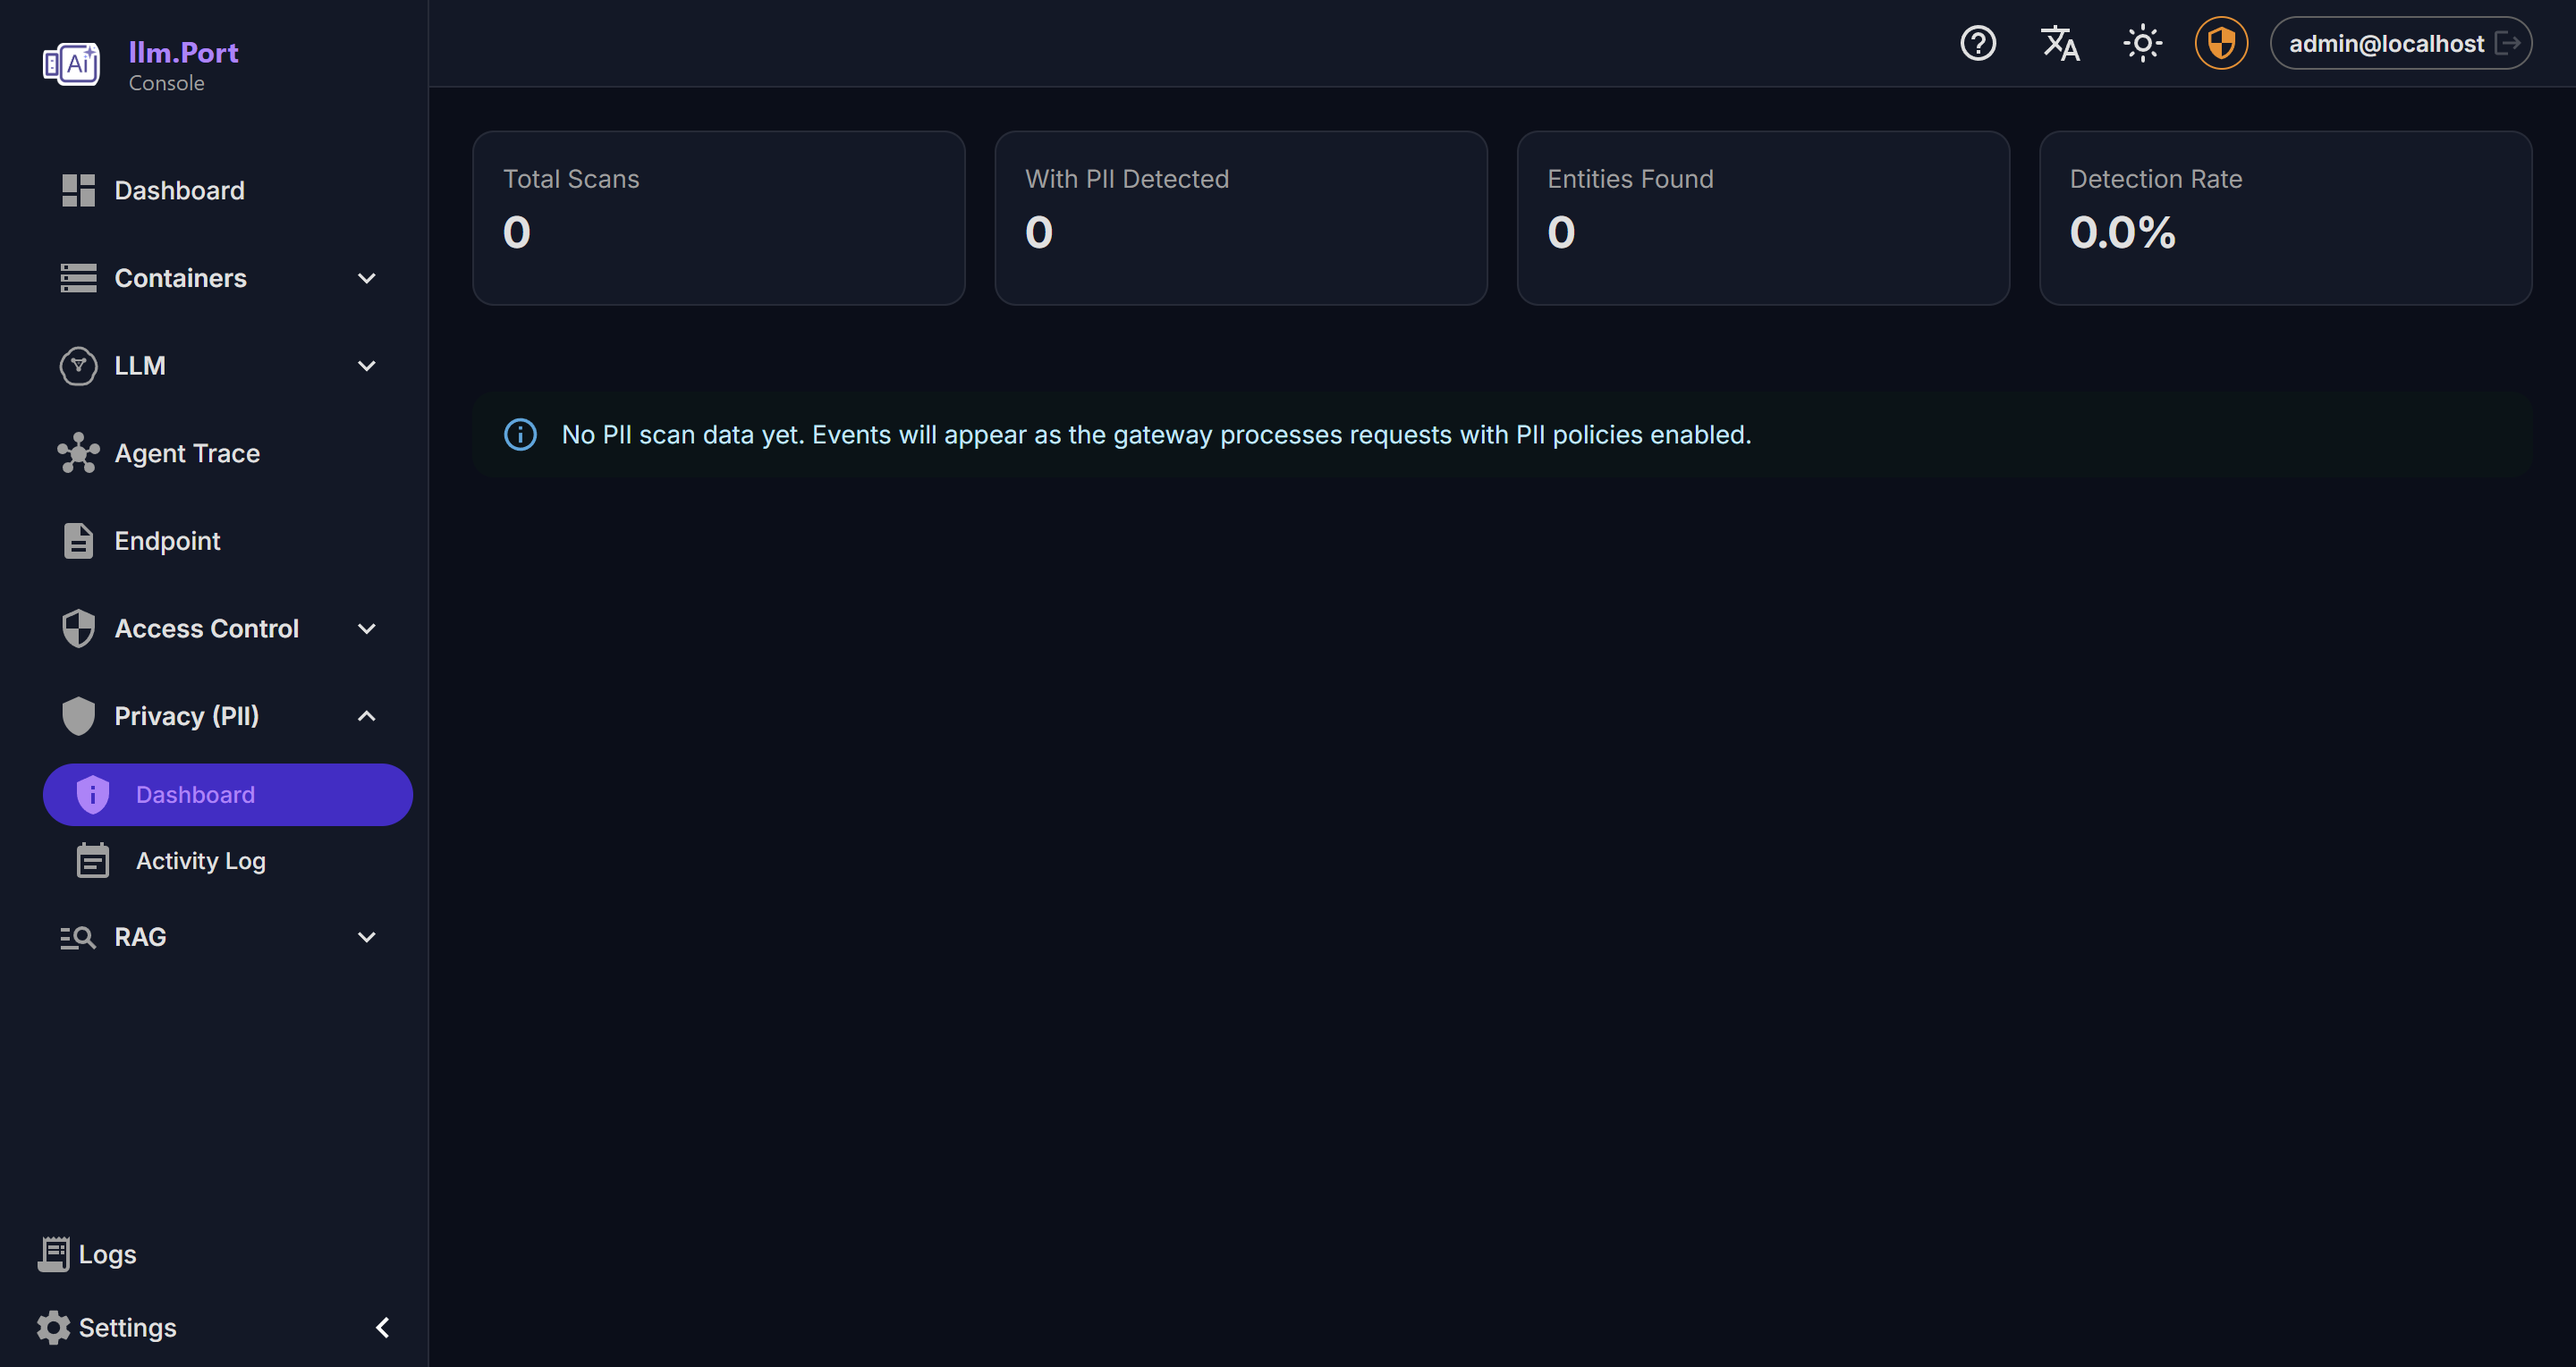
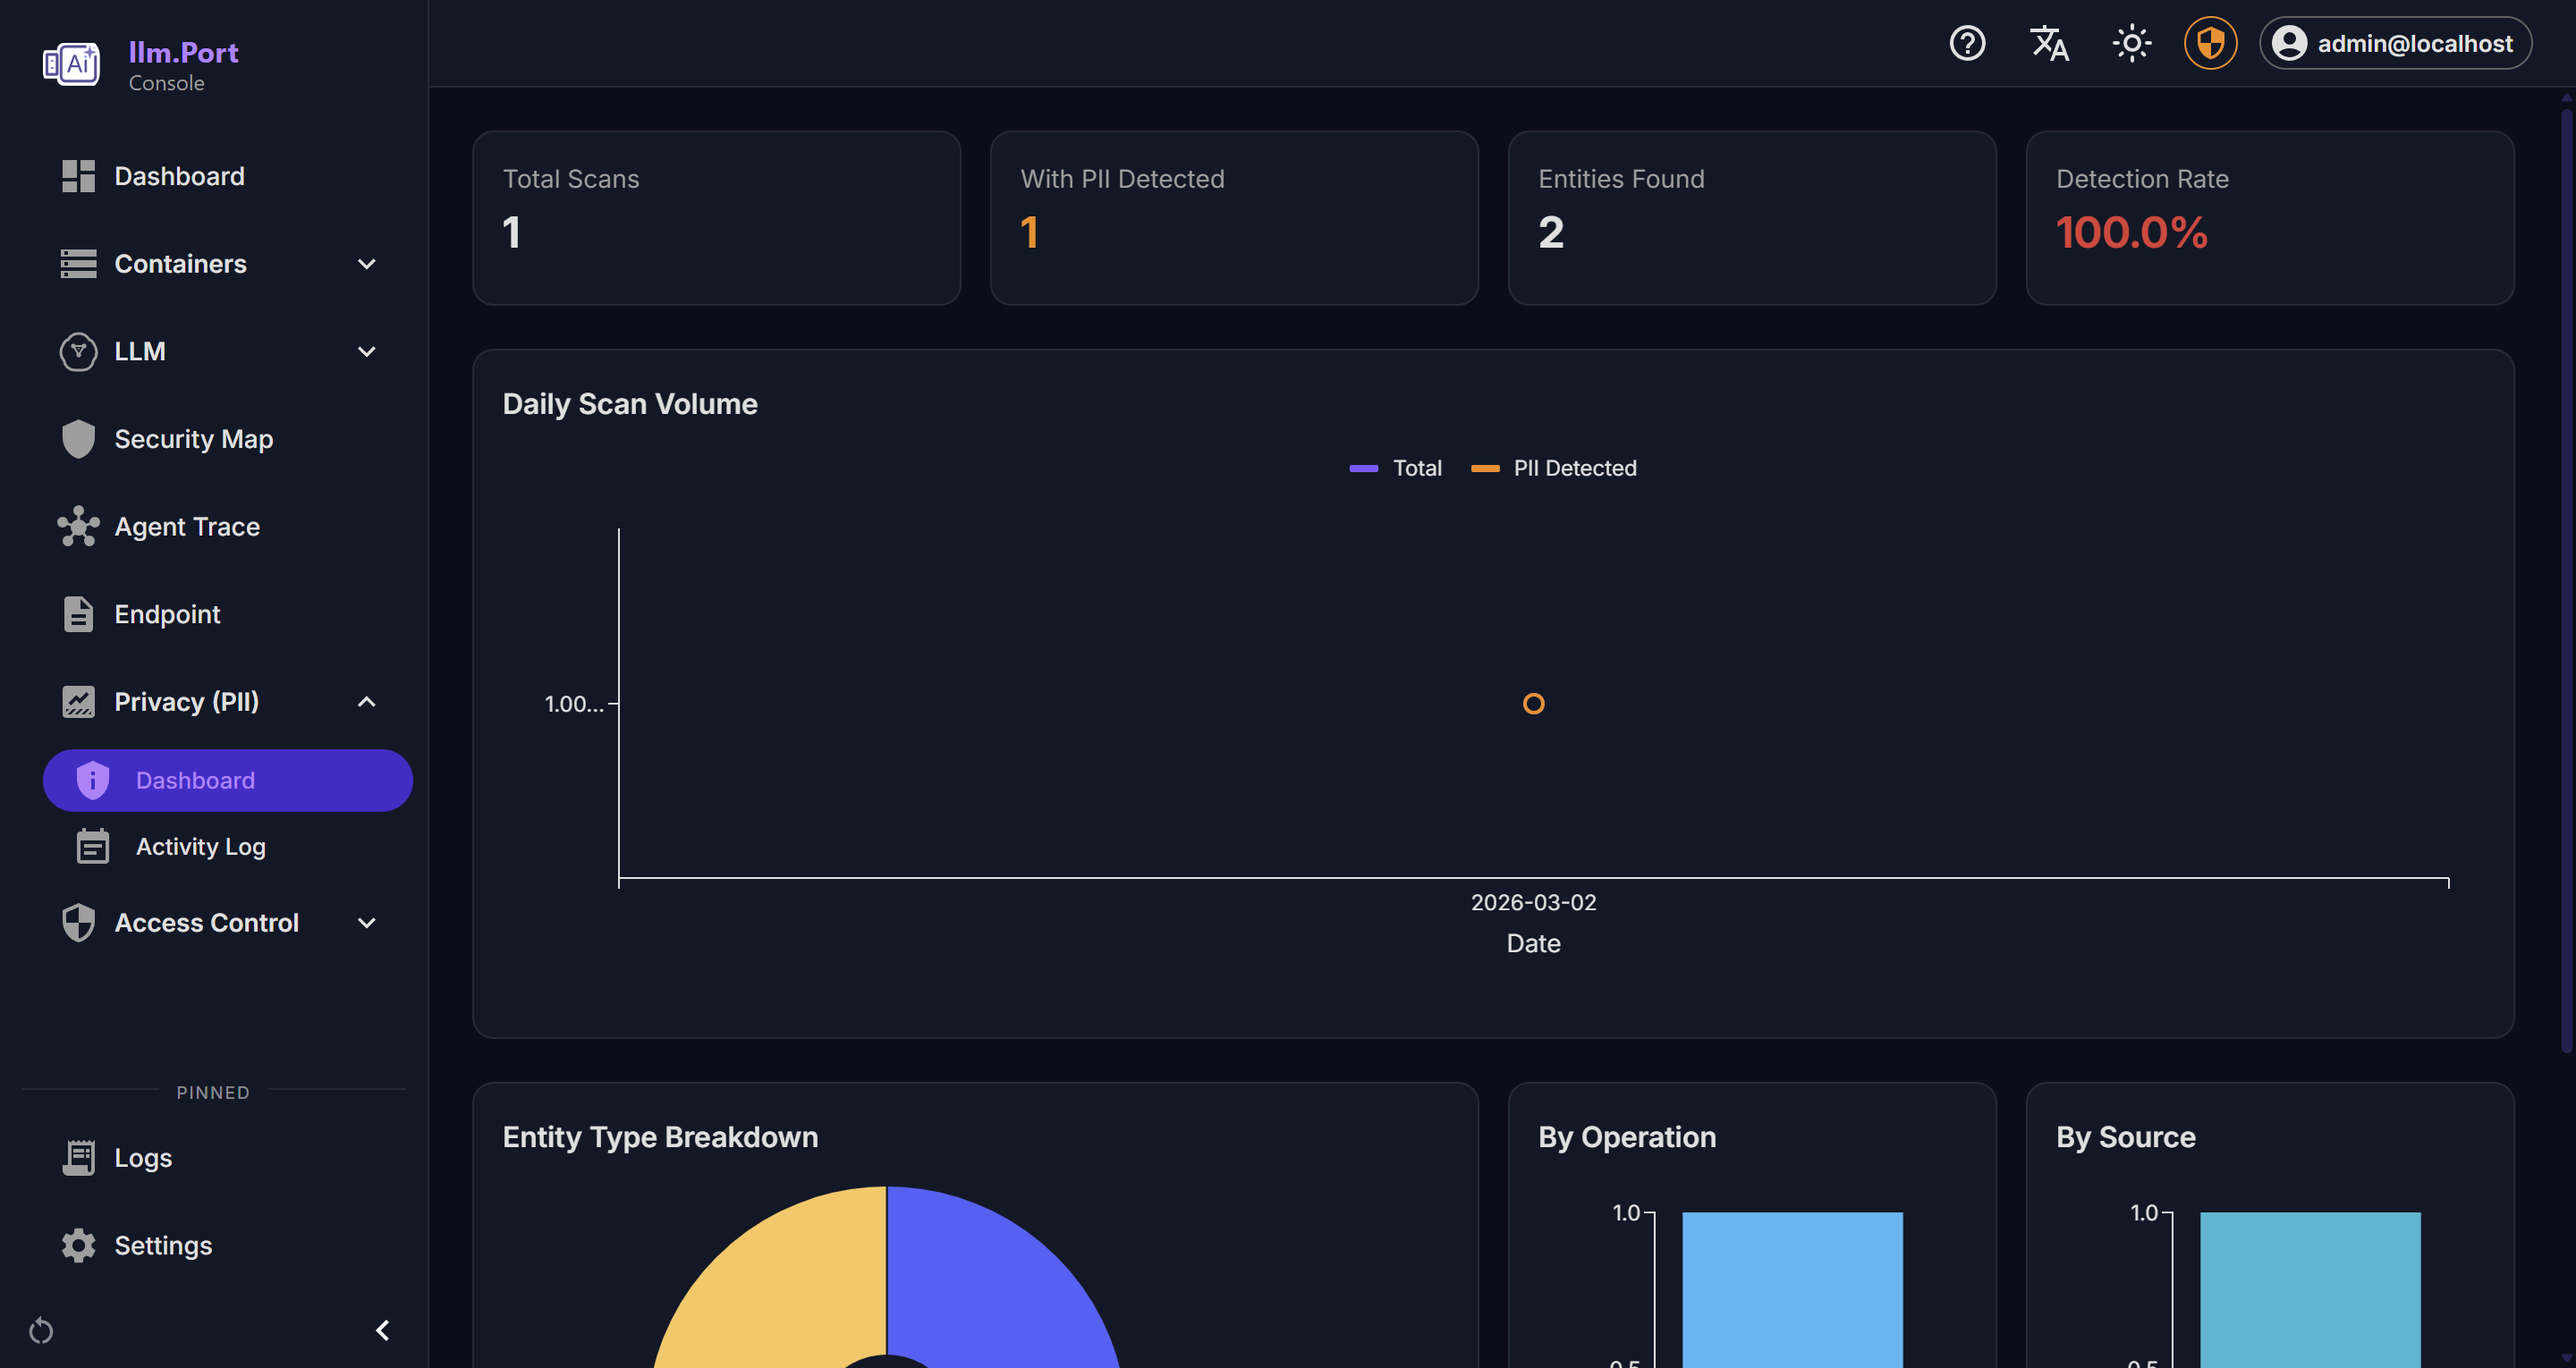
update readme

diff --git a/profile/README.md b/profile/README.md
@@ -1,12 +1,13 @@
 # llm.port
 
 **llm.port** is a self-hosted **all-in-one LLM platform** that combines:
+
 - an OpenAI-compatible gateway for app traffic
 - control-plane operations for model servers and runtime infrastructure
 - an internal RAG subsystem for ingestion, indexing, and governed retrieval
 - PII detection and redaction integrated into the gateway pipeline
 
-It **routes, secures, and observes** traffic across **local LLM runtimes** *and* **remote providers**, while giving teams a single place to manage LLM services end-to-end.
+It **routes, secures, and observes** traffic across **local LLM runtimes** _and_ **remote providers**, while giving teams a single place to manage LLM services end-to-end.
 
 ## Architecture
 
@@ -40,6 +41,8 @@ It **routes, secures, and observes** traffic across **local LLM runtimes** *and*
 
 <img src="./images/api.png">
 
+<img src="./images/modules.png">
+
 ---
 
 ## What it does
@@ -47,6 +50,7 @@ It **routes, secures, and observes** traffic across **local LLM runtimes** *and*
 ### ✅ Today
 
 **Gateway & Routing**
+
 - **One endpoint for all apps**: OpenAI-compatible API (`/v1/models`, `/v1/chat/completions`, `/v1/embeddings`)
 - **Provider routing layer**: local runtimes (vLLM, llama.cpp, Ollama, TGI) and remote providers (OpenAI, Azure, …)
 - **Alias-based model resolution**: multi-tenant routing to pools of provider instances
@@ -54,6 +58,7 @@ It **routes, secures, and observes** traffic across **local LLM runtimes** *and*
 - **Proxy & retry**: upstream HTTP proxy with configurable timeout and pre-first-token retry
 
 **Security & Policy**
+
 - **Full RBAC**: resource + action permission model with roles, groups, and user assignment
 - **JWT authentication**: bearer tokens with tenant-aware claims across gateway and admin APIs
 - **OAuth / SSO**: OIDC/OAuth2 provider management with auto-registration and group mapping
@@ -64,12 +69,14 @@ It **routes, secures, and observes** traffic across **local LLM runtimes** *and*
 - **DB-stored secrets**: Fernet-encrypted secrets with a single master key — no secrets in env vars
 
 **PII Detection & Redaction**
+
 - **Presidio-based** standalone service for PII scanning, redaction, and reversible tokenization
 - **Gateway-integrated**: per-tenant PII policies for telemetry sanitization and egress control
 - **Configurable entity types**: PERSON, EMAIL, PHONE, CREDIT_CARD, SSN, IP_ADDRESS, etc.
 - **Fail modes**: block, allow, or fallback-to-local on PII service errors
 
 **Observability**
+
 - **Langfuse tracing**: full trace/generation events with privacy modes (full / redacted / metadata_only)
 - **Centralized logging**: Loki + Alloy log collection, queryable via Grafana and admin API
 - **Audit logging**: every gateway request and admin action logged with full context
@@ -78,6 +85,7 @@ It **routes, secures, and observes** traffic across **local LLM runtimes** *and*
 - **Dashboard**: system overview, health checks, container stats, Grafana panel embeds
 
 **Ops Console**
+
 - **Container management**: lifecycle controls (start/stop/restart/pause), exec, log streaming
 - **Image management**: pull with SSE progress, list, prune
 - **Compose stack management**: deploy/update/rollback with revisions, diffs, and audit trail
@@ -85,6 +93,7 @@ It **routes, secures, and observes** traffic across **local LLM runtimes** *and*
 - **Network visibility**: Docker network inspection and system/user classification
 
 **LLM Runtime Management**
+
 - **Provider adapter registry**: pluggable adapters for vLLM, llama.cpp, Ollama, TGI
 - **Multi-vendor GPU support**: auto-detection for NVIDIA (CUDA), AMD (ROCm), Intel, and Apple Metal
 - **vLLM image presets**: automatic image selection (CUDA / ROCm / Legacy CUDA for CC ≥ 7.0)
@@ -93,12 +102,14 @@ It **routes, secures, and observes** traffic across **local LLM runtimes** *and*
 - **LLM topology graph**: visual topology + trace browser with SSE streaming
 
 **System Configuration**
+
 - **Settings registry**: code-defined typed settings (string, int, bool, secret, json, enum)
 - **Init wizard**: guided multi-step setup for shared services and gateway configuration
 - **Infrastructure agents**: remote agent registration, heartbeat, and distributed apply
 - **Apply orchestration**: live-reload vs. service-restart vs. stack-recreate, routed to local or remote executors
 
 **RAG (Retrieval)**
+
 - **Knowledge search**: vector, keyword, or hybrid scoring with filters and ACL enforcement
 - **Multi-tenant**: partitioning by tenant + optional workspace, with chunk-level ACL principals
 - **Virtual containers**: N-level container tree with assets, versions, and draft/publish workflows
@@ -108,6 +119,7 @@ It **routes, secures, and observes** traffic across **local LLM runtimes** *and*
 - **Async processing**: Taskiq + RabbitMQ for ingestion, publishing, and scheduled collector syncs
 
 **CLI**
+
 - **System management**: `up`, `down`, `status`, `logs`, `config`, `module enable/disable`
 - **Production installer**: interactive setup wizard with GPU auto-detection and TUI
 - **Dev workflow**: `dev init` (clone repos + install deps + start infra + run migrations)
@@ -115,13 +127,16 @@ It **routes, secures, and observes** traffic across **local LLM runtimes** *and*
 - **Env generation**: `.env` file generation for dev and production with random secret generation
 
 **Internationalization**
+
 - **4 languages**: English, German, Spanish, Chinese
 - **Runtime-loaded**: JSON bundles served by backend — new languages added without frontend recompilation
 
 ### 🚧 In progress
+
 - **Workspace/tenant retrieval scope**: strict isolation and policy-driven access in RAG
 
 ### 🧭 Planned
+
 - More runtimes (TensorRT-LLM, etc.)
 - More providers (additional managed APIs)
 - Model rollout workflows (staged deploy, canary, rollback)
@@ -139,16 +154,16 @@ without changing your apps or losing governance and observability.
 
 ## Repository layout
 
-| Repo | Description |
-|---|---|
-| `llm-port-frontend` | React admin console UI (Vite + React Router) |
-| `llm-port-backend` | FastAPI control-plane: users, RBAC, LLM management, system settings, Docker orchestration |
-| `llm-port-api` | OpenAI-compatible V1 gateway service (FastAPI) |
-| `llm-port-rag` | Internal RAG subsystem: ingestion, knowledge search, collector plugins (FastAPI + pgvector) |
-| `llm-port-pii` | PII detection and redaction service (FastAPI + Presidio) |
-| `llm-port-cli` | CLI installer and management tool (Click + Textual TUI) |
-| `llm-port-shared` | Shared Docker Compose stack: Postgres, Redis, Grafana, Loki, Alloy |
-| `llm-port-dev` | Project documentation, feature specs, infrastructure docs, dev scripts |
+| Repo                | Description                                                                                 |
+| ------------------- | ------------------------------------------------------------------------------------------- |
+| `llm-port-frontend` | React admin console UI (Vite + React Router)                                                |
+| `llm-port-backend`  | FastAPI control-plane: users, RBAC, LLM management, system settings, Docker orchestration   |
+| `llm-port-api`      | OpenAI-compatible V1 gateway service (FastAPI)                                              |
+| `llm-port-rag`      | Internal RAG subsystem: ingestion, knowledge search, collector plugins (FastAPI + pgvector) |
+| `llm-port-pii`      | PII detection and redaction service (FastAPI + Presidio)                                    |
+| `llm-port-cli`      | CLI installer and management tool (Click + Textual TUI)                                     |
+| `llm-port-shared`   | Shared Docker Compose stack: Postgres, Redis, Grafana, Loki, Alloy                          |
+| `llm-port-dev`      | Project documentation, feature specs, infrastructure docs, dev scripts                      |
 
 > Visibility note: the org is public, but some repos may be private temporarily while we are finalizing and cleaning things up.
 
@@ -158,11 +173,11 @@ without changing your apps or losing governance and observability.
 
 Until the public quickstart is finalized, the intended flow is:
 
-1) Start shared services (Postgres, Redis, Grafana, Loki)
-2) Start the control-plane backend
-3) Run the init wizard to configure secrets, providers, and gateway settings
-4) Add providers (remote) and/or runtimes (local)
-5) Point your apps to the OpenAI-compatible endpoint
+1. Start shared services (Postgres, Redis, Grafana, Loki)
+2. Start the control-plane backend
+3. Run the init wizard to configure secrets, providers, and gateway settings
+4. Add providers (remote) and/or runtimes (local)
+5. Point your apps to the OpenAI-compatible endpoint
 
 If you want early access or to be a design partner, open an issue/discussion in this repo.
 
